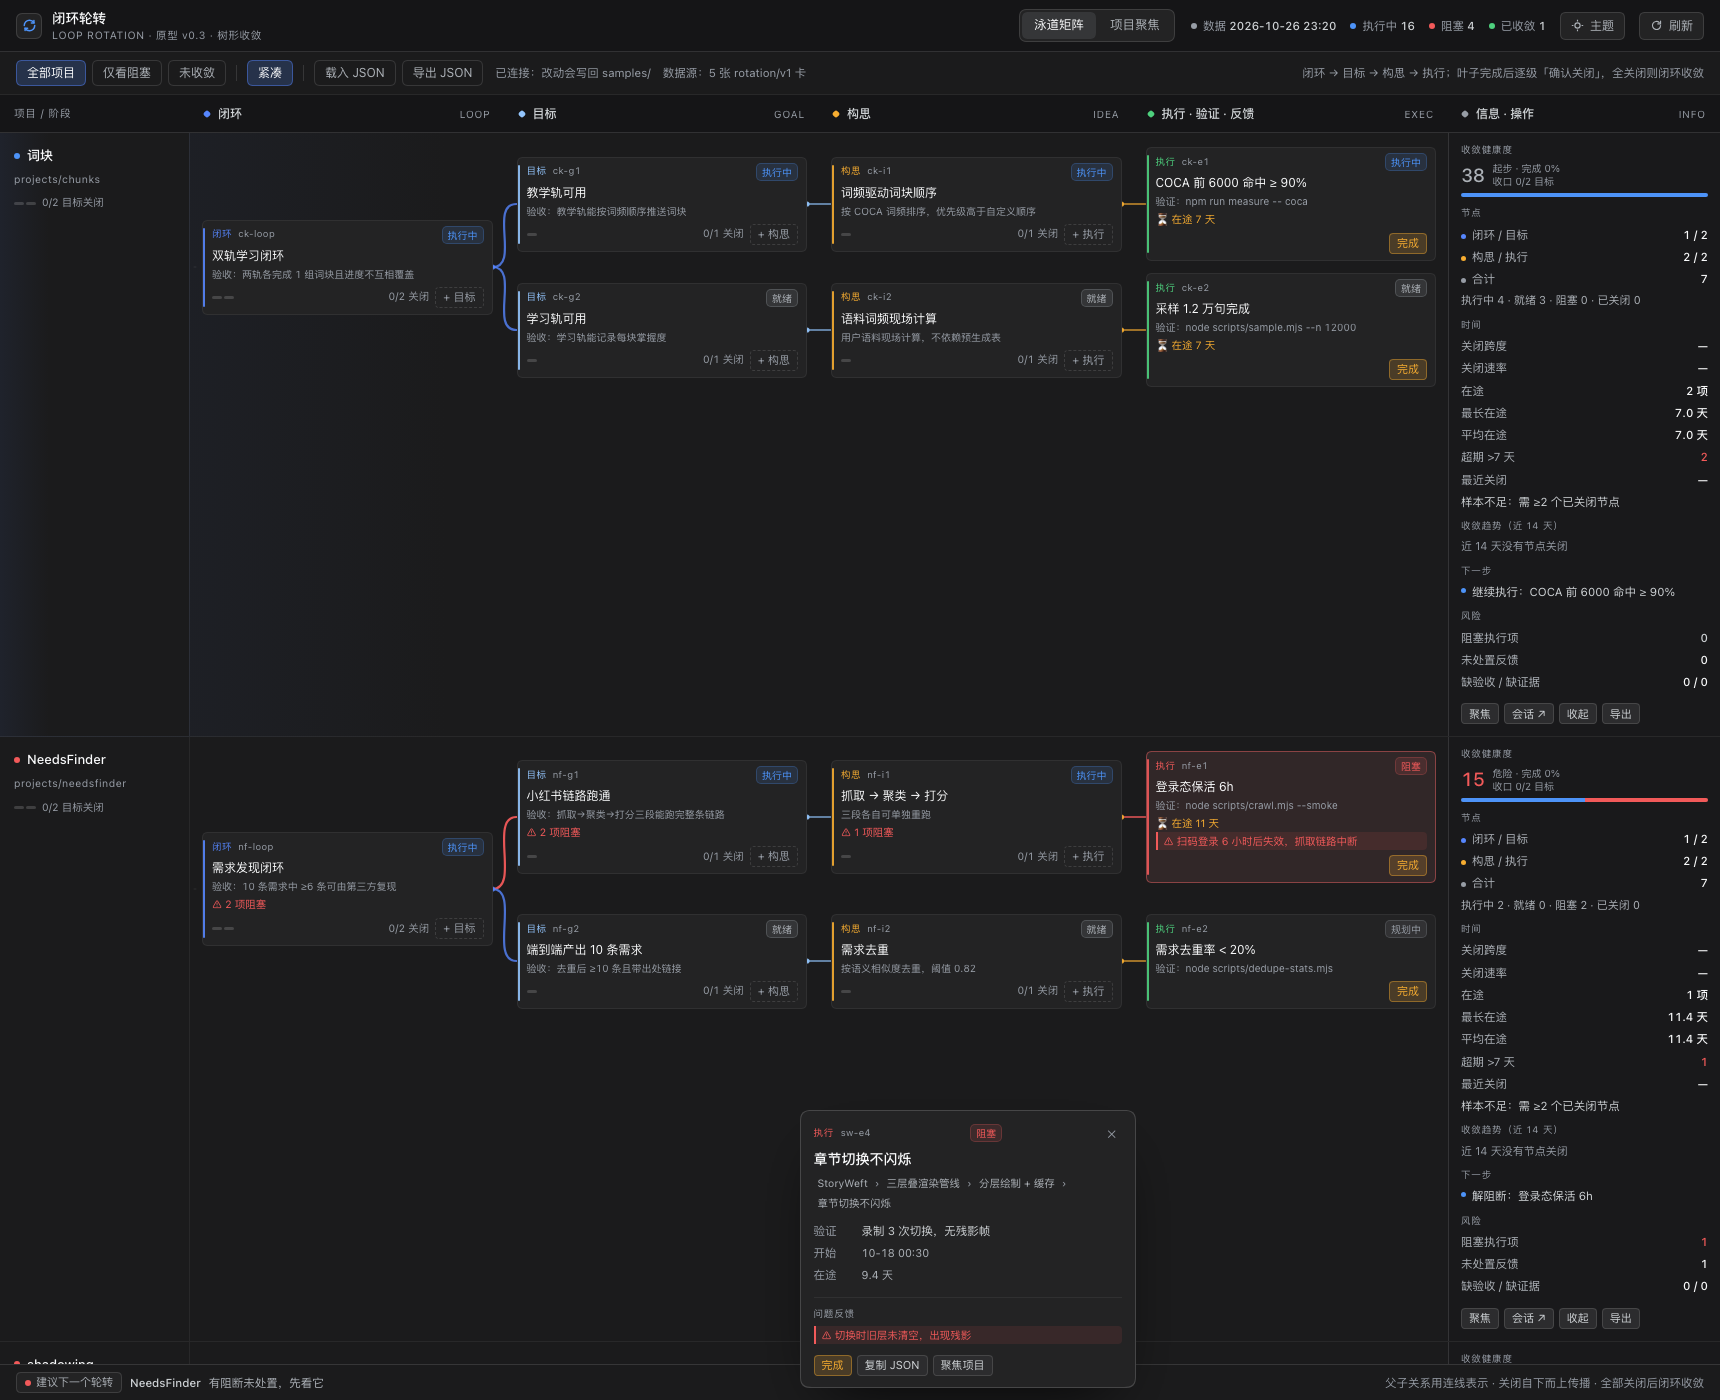
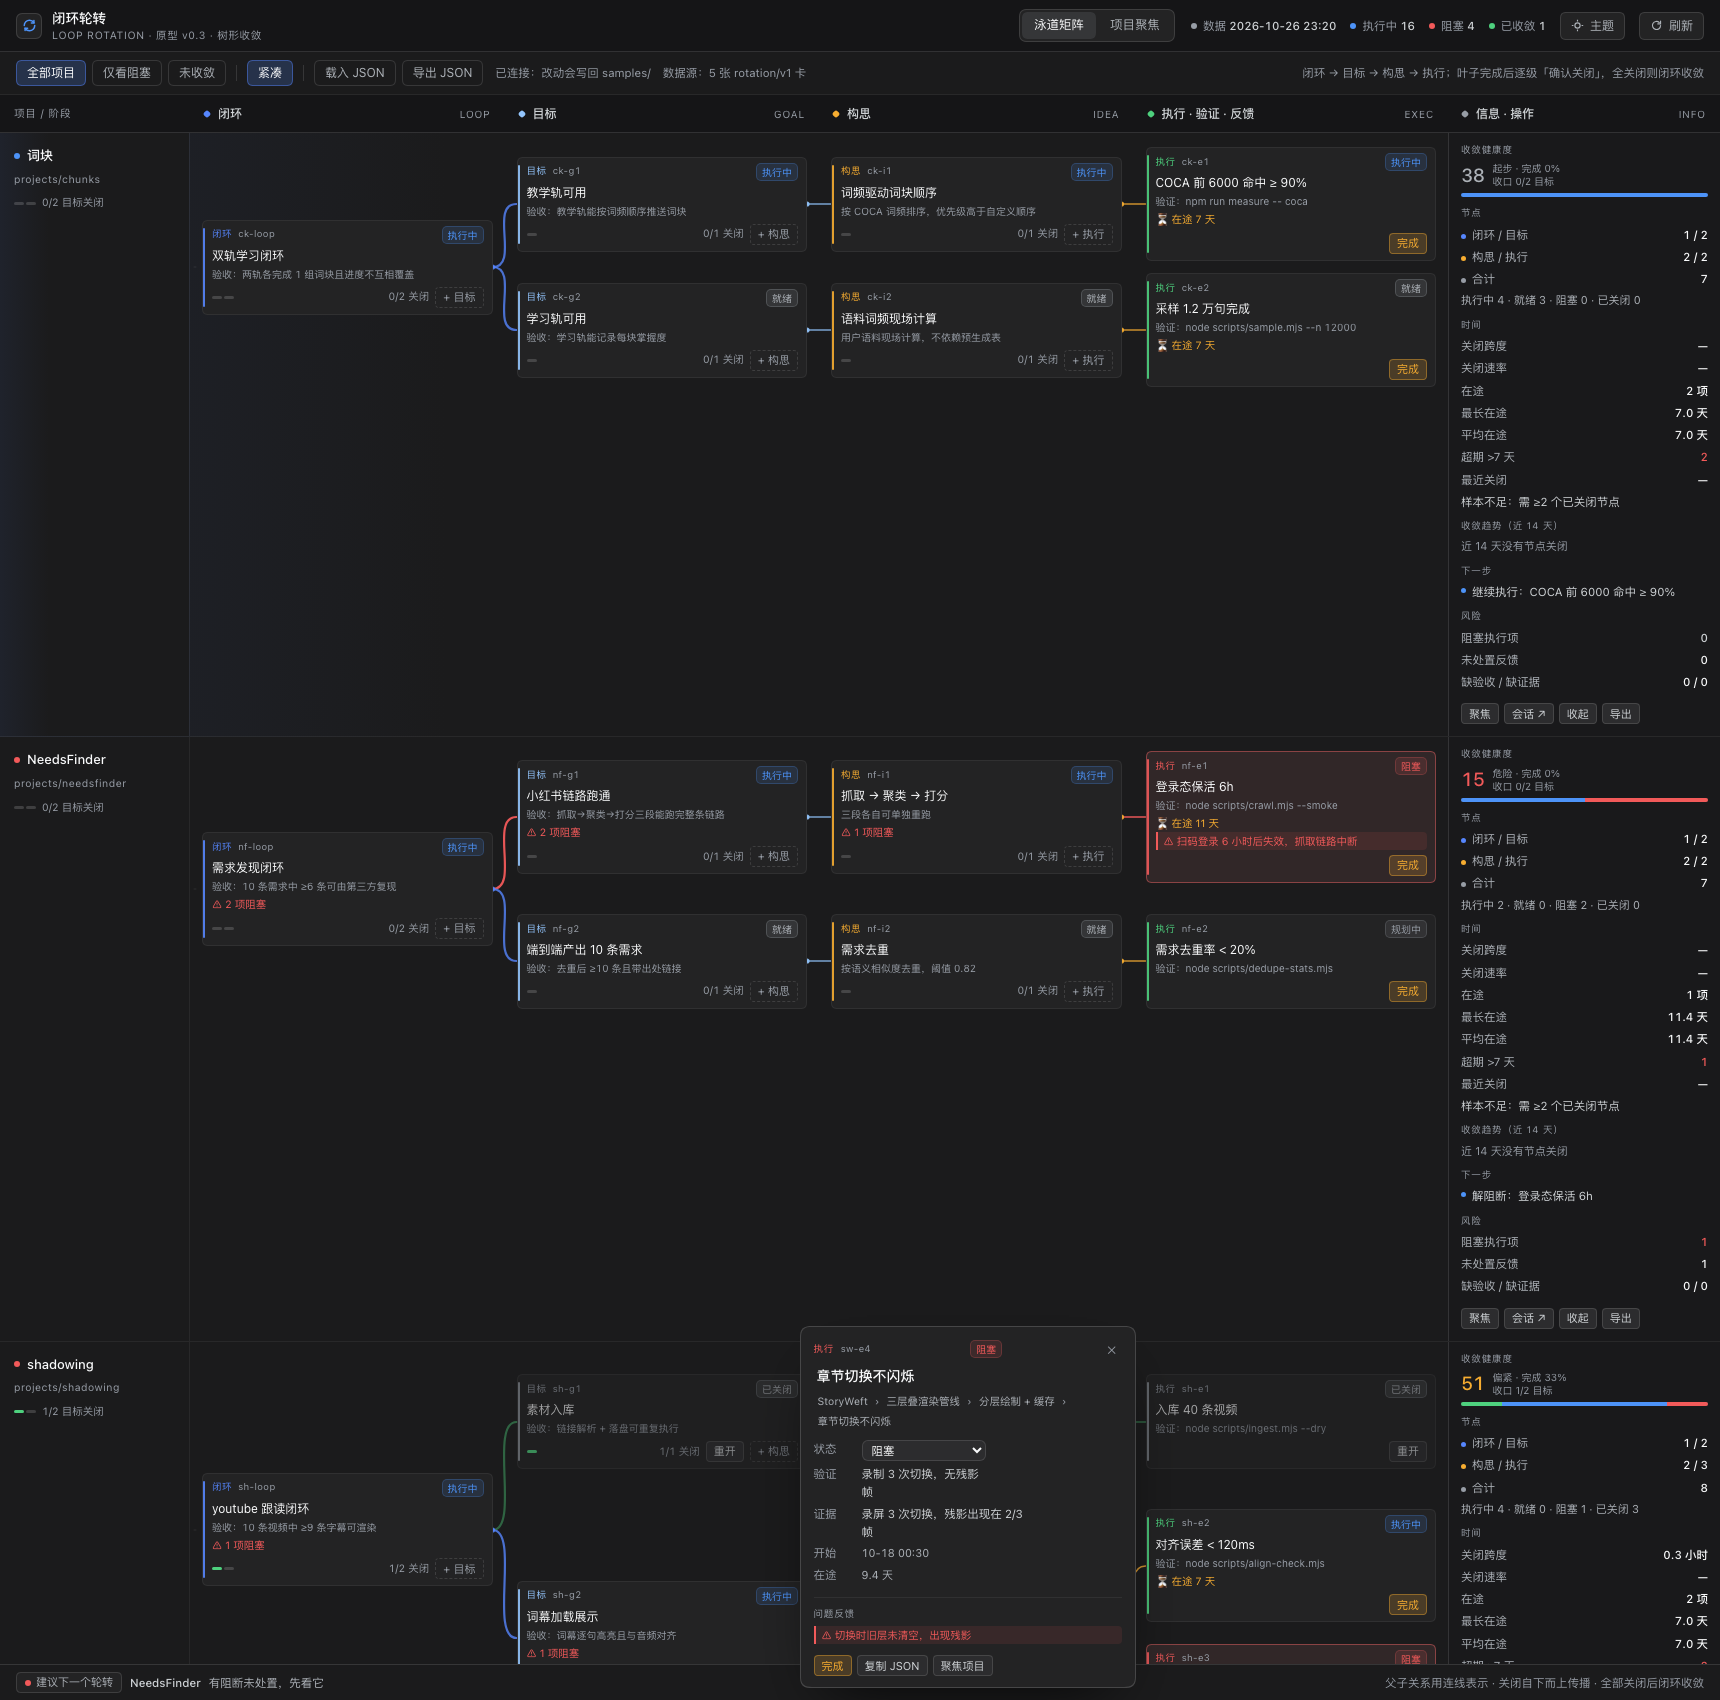
feat: inline-edit node fields in the detail card
- 详情卡字段可编辑：标题、状态（下拉）、意图/验收/方案/验证/证据
- 保存走同一个 PUT 接口，服务端再校验；422 时回滚并提示原因，
  有警告时照样保存并在 toast 里带出第一条警告
- ⌘/Ctrl+Enter 保存、Esc 取消；保存后卡片与泳道重渲染，详情卡挂回原节点
- 已关闭节点的状态下拉禁用；空字段显示「点击填写」虚线占位

diff --git a/index.html b/index.html
@@ -283,6 +283,20 @@
   .detail-row dt{flex:0 0 40px;color:var(--tx4)}
   .detail-row dd{margin:0;color:var(--tx2);word-break:break-word}
   .detail-row dd.mono{font-variant-numeric:tabular-nums;color:var(--tx3);font-size:11px}
+  .detail-title{cursor:text;border-radius:5px;padding:1px 3px;margin-left:-3px;transition:background-color 140ms var(--ease-out)}
+  .detail-title:hover{background:var(--hover)}
+  .editval{display:block;width:100%;text-align:left;font-size:11.5px;line-height:1.55;color:var(--tx2);
+    padding:1px 4px;margin:-1px -4px;border-radius:5px;transition:background-color 140ms var(--ease-out)}
+  .editval:hover{background:var(--hover);color:var(--tx1)}
+  .editval.empty{color:var(--tx4);border:1px dashed var(--b2);text-align:center;font-size:11px}
+  .dfield{width:100%;font:inherit;font-size:11.5px;color:var(--tx1);background:var(--l3);
+    border:1px solid var(--b3);border-radius:6px;padding:5px 7px;resize:vertical;min-height:30px}
+  .dfield:focus{outline:2px solid var(--brand);outline-offset:1px}
+  .dedit{display:flex;align-items:center;gap:5px;margin-top:5px}
+  .dedit-hint{font-size:9.5px;color:var(--tx4);margin-left:auto}
+  .dselect{font:inherit;font-size:11.5px;color:var(--tx1);background:var(--l3);border:1px solid var(--b2);
+    border-radius:6px;padding:2px 5px}
+  .dselect:disabled{opacity:.55}
   .detail-chips{display:flex;flex-wrap:wrap;gap:5px}
   .dchip{display:inline-flex;align-items:center;gap:5px;height:23px;padding:0 8px;border-radius:6px;corner-shape:var(--corner);
     border:1px solid var(--b2);background:var(--l3);font-size:11px;color:var(--tx2);max-width:100%}
@@ -1279,6 +1293,12 @@ function addChild(id){
   persist(p);
 }
 
+const esc = (v) => String(v == null ? '' : v).replace(/[&<>"']/g,
+  c => ({ '&':'&amp;', '<':'&lt;', '>':'&gt;', '"':'&quot;', "'":'&#39;' }[c]));
+const EDIT_FIELDS = { loop:['intent','acceptance'], goal:['acceptance'], idea:['approach'], exec:['verify','proof'] };
+const FIELD_LABEL = { intent:'意图', acceptance:'验收', approach:'方案', verify:'验证', proof:'证据' };
+const STATUS_OPTS = ['plan','ready','doing','blocked','done'];
+
 const fmtTs = (iso) => new Date(iso).toLocaleString('sv-SE').slice(5, 16);
 function pathTo(root, id){
   const arr = [];
@@ -1294,17 +1314,18 @@ function detailMarkup(p, n){
   const st = stateOf(n);
   const tone = nodeTone(n);
   const kids = n.children || [];
-  const rows = [];
-  if (r.intent)     rows.push(['意图', r.intent]);
-  if (r.acceptance) rows.push(['验收', r.acceptance]);
-  if (r.approach)   rows.push(['方案', r.approach]);
-  if (r.verify)     rows.push(['验证', r.verify]);
-  if (r.proof)      rows.push(['证据', r.proof]);
-  if (r.closed_at)  rows.push(['关闭', fmtTs(r.closed_at)]);
-  if (r.started_at) rows.push(['开始', fmtTs(r.started_at)]);
+  const editable = (EDIT_FIELDS[n.kind] || []).map(f =>
+    `<div class="detail-row editable" data-field="${f}" data-nid="${n.id}" data-proj="${p.id}">
+       <dt>${FIELD_LABEL[f]}</dt>
+       <dd><button class="editval${r[f] ? '' : ' empty'}" data-edit="${f}">${r[f] ? esc(r[f]) : '点击填写'}</button></dd>
+     </div>`).join('');
+  const timeRows = [];
+  if (r.started_at) timeRows.push(['开始', fmtTs(r.started_at), true]);
+  if (r.closed_at)  timeRows.push(['关闭', fmtTs(r.closed_at), true]);
   const inFlight = (!r.closed_at && r.started_at)
     ? ((Date.now() - Date.parse(r.started_at)) / 86400000) : null;
-  if (inFlight != null) rows.push(['在途', fmtDays(inFlight)]);
+  if (inFlight != null) timeRows.push(['在途', fmtDays(inFlight), true]);
+  const rows = timeRows.map(([k, v]) => `<div class="detail-row"><dt>${k}</dt><dd class="mono">${v}</dd></div>`).join('');
 
   const trail = pathTo(p.root, n.id);
   const pathHtml = [`<button data-jump="${p.root.id}" data-proj="${p.id}">${p.name}</button>`]
@@ -1334,11 +1355,17 @@ function detailMarkup(p, n){
       <span class="st" style="--st-tone:${st.tone}">${st.label}</span>
       <button class="detail-close" id="detail-x" aria-label="关闭详情">✕</button>
     </div>
-    <h3>${n.title}</h3>
+    <h3 class="detail-title" data-nid="${n.id}" data-proj="${p.id}" title="点击编辑标题">${esc(n.title)}</h3>
     <div class="detail-path">${pathHtml}</div>
     <dl class="detail-sec" style="margin-top:0;padding-top:0;border-top:0">
-      ${rows.map(([k, v]) => `<div class="detail-row"><dt>${k}</dt><dd class="${k==='关闭'||k==='开始'||k==='在途'?'mono':''}">${v}</dd></div>`).join('')}
-      ${rows.length ? '' : '<div class="detail-row"><dt>说明</dt><dd>这张卡没有填写验收/证据字段</dd></div>'}
+      <div class="detail-row editable" data-field="status" data-nid="${n.id}" data-proj="${p.id}">
+        <dt>状态</dt>
+        <dd><select class="dselect" data-status="${n.id}" ${n.closed ? 'disabled' : ''}>
+          ${STATUS_OPTS.map(x => `<option value="${x}" ${x === (r.status || 'plan') ? 'selected' : ''}>${(STATUS[x]||STATUS.plan).label}${x==='done'?'（待确认）':''}</option>`).join('')}
+        </select></dd>
+      </div>
+      ${editable}
+      ${rows}
     </dl>
     ${issues ? `<div class="detail-sec"><div class="detail-k">问题反馈</div>${issues}</div>` : ''}
     ${kidsHtml}
@@ -1397,6 +1424,48 @@ function openDetail(id){
   setTimeout(showIt, 48);
 }
 
+function startEdit(field, anchor){
+  const row = anchor.closest('.detail-row');
+  if (!row) return;
+  const nid = row.dataset.nid, pid = row.dataset.proj;
+  const p0 = PROJECTS.find(x => x.id === pid), n0 = p0 && findNode(p0.root, nid);
+  const val = n0 && n0.raw ? (n0.raw[field] || '') : '';
+  const dd = row.querySelector('dd');
+  const multiline = field === 'acceptance' || field === 'verify' || field === 'approach' || field === 'proof' || field === 'intent';
+  dd.innerHTML = `${multiline
+      ? `<textarea class="dfield" rows="${field === 'proof' ? 2 : 2}" placeholder="${FIELD_LABEL[field]}…">${esc(val)}</textarea>`
+      : `<input class="dfield" type="text" value="${esc(val)}" placeholder="${FIELD_LABEL[field]}…">`}
+    <div class="dedit">
+      <button class="tbtn primary-converge" data-save-edit="1">保存</button>
+      <button class="tbtn" data-cancel-edit="1">取消</button>
+      <span class="dedit-hint">⌘/Ctrl+Enter 保存 · Esc 取消</span>
+    </div>`;
+  const input = dd.querySelector('.dfield');
+  input.focus();
+  input.select && input.select();
+  const commit = () => {
+    const v = input.value.trim();
+    n0.raw[field === 'title' ? 'title' : field] = v;
+    if (field === 'title') n0.title = v;
+    persist(p0).then(res => {
+      if (!res.ok){
+        toast('保存失败：' + res.error);
+      } else if (res.warnings && res.warnings.length){
+        toast('已保存（有警告：' + res.warnings[0] + '）');
+      } else {
+        toast(`已保存「${FIELD_LABEL[field] || field}」`);
+      }
+      render();
+    });
+  };
+  dd.querySelector('[data-save-edit]').addEventListener('click', commit);
+  dd.querySelector('[data-cancel-edit]').addEventListener('click', () => openDetail(nid));
+  input.addEventListener('keydown', (e) => {
+    if (e.key === 'Enter' && (e.metaKey || e.ctrlKey)) { e.preventDefault(); commit(); }
+    if (e.key === 'Escape') { e.preventDefault(); e.stopPropagation(); openDetail(nid); }
+  });
+}
+
 function openConfirm(id){
   const p = findProjectByNode(id); if (!p) return;
   const n = findNode(p.root, id); if (!n) return;
@@ -1443,11 +1512,11 @@ function markSave(msg, kind){
   el.dataset.state = kind || '';
 }
 async function persist(p){
-  if (!p.card) return;
+  if (!p.card) return { ok:false, error:'没有可写回的 card' };
   p.card.updated = new Date().toISOString();
   if (!p.file || !location.protocol.startsWith('http')){
     markSave('未连接保存服务 · 用「导出 JSON」保存', 'warn');
-    return;
+    return { ok:false, error:'未连接保存服务' };
   }
   try {
     const res = await fetch('api/cards/' + encodeURIComponent(p.file), {
@@ -1458,9 +1527,10 @@ async function persist(p){
     const j = await res.json().catch(() => ({}));
     if (!res.ok) throw new Error(j.error || ('HTTP ' + res.status) + (j.errors ? '：' + j.errors[0] : ''));
     markSave(`已写入 ${p.file} · ${new Date().toLocaleTimeString('sv-SE')}`, 'ok');
+    return { ok:true, warnings: j.warnings || [] };
   } catch (e) {
     markSave('写入失败：' + e.message, 'err');
-    toast('写入失败：' + e.message);
+    return { ok:false, error:e.message };
   }
 }
 function exportCard(p){
@@ -1476,6 +1546,22 @@ function exportCard(p){
 }
 
 /* ─────────── toast ─────────── */
+document.addEventListener('change', (e) => {
+  const sel = e.target.closest('[data-status]');
+  if (!sel) return;
+  const id = sel.dataset.status;
+  const p0 = findProjectByNode(id), n0 = p0 && findNode(p0.root, id);
+  if (!n0 || !n0.raw) return;
+  const prev = n0.raw.status;
+  n0.raw.status = sel.value;
+  n0.status = sel.value || 'plan';
+  persist(p0).then(res => {
+    if (!res.ok){ n0.raw.status = prev; n0.status = prev; toast('保存失败：' + res.error); }
+    else toast(`状态已改为「${(STATUS[sel.value]||STATUS.plan).label}」`);
+    render();
+  });
+});
+
 let toastTimer;
 function toast(msg){
   $('#toast-text').textContent = msg;
@@ -1519,6 +1605,10 @@ $('#density').addEventListener('click', (e)=>{
 document.addEventListener('click', (e)=>{
   // 详情卡内部交互
   if (e.target.closest('#detail-x')){ closeDetail(); return; }
+  const editVal = e.target.closest('[data-edit]');
+  if (editVal){ startEdit(editVal.dataset.edit, editVal); return; }
+  const titleEl = e.target.closest('.detail-title');
+  if (titleEl){ startEdit('title', titleEl); return; }
   const jump = e.target.closest('[data-jump]');
   if (jump){ openDetail(jump.dataset.jump); return; }
   const copyBtn = e.target.closest('[data-copy]');

diff --git a/README.md b/README.md
@@ -31,6 +31,21 @@ node validate-rotation.mjs samples/我的项目.rotation.json   # 先改 id/titl
 | 操作 | 确认关闭 / 重开 / 复制 JSON / 聚焦项目 |
 
 - 点空白处、Esc、或再点别的节点都会切换/关闭。
+### 字段就地编辑
+
+详情卡里的 **标题 / 状态 / 意图 / 验收 / 方案 / 验证 / 证据** 都可以直接点开改：
+
+| 操作 | 行为 |
+|---|---|
+| 点标题或字段值 | 变成输入框 / 多行框 |
+| ⌘/Ctrl+Enter 或「保存」 | 写回 `rotation.json`（走同一个 PUT，服务端会再校验） |
+| Esc 或「取消」 | 放弃修改，卡回读模式 |
+| 状态下拉 | 改 `status` 后立即写回；已关闭节点禁用 |
+
+- 校验不过（例如清空 `exec.verify`）会被服务端 422 拒绝，界面回滚并提示原因。
+- 有警告时照样保存，但 toast 会带出第一条警告（例如「非叶子写入 status=done 不生效」）。
+- 保存后卡片与泳道都会重渲染，详情卡自动挂回同一节点。
+
 - 分享某个具体节点：`?open=<nodeId>`，例如 `/?open=sw-e4`。
 - 窗口 resize 或切主题后详情卡会自动挂回原节点。
 
